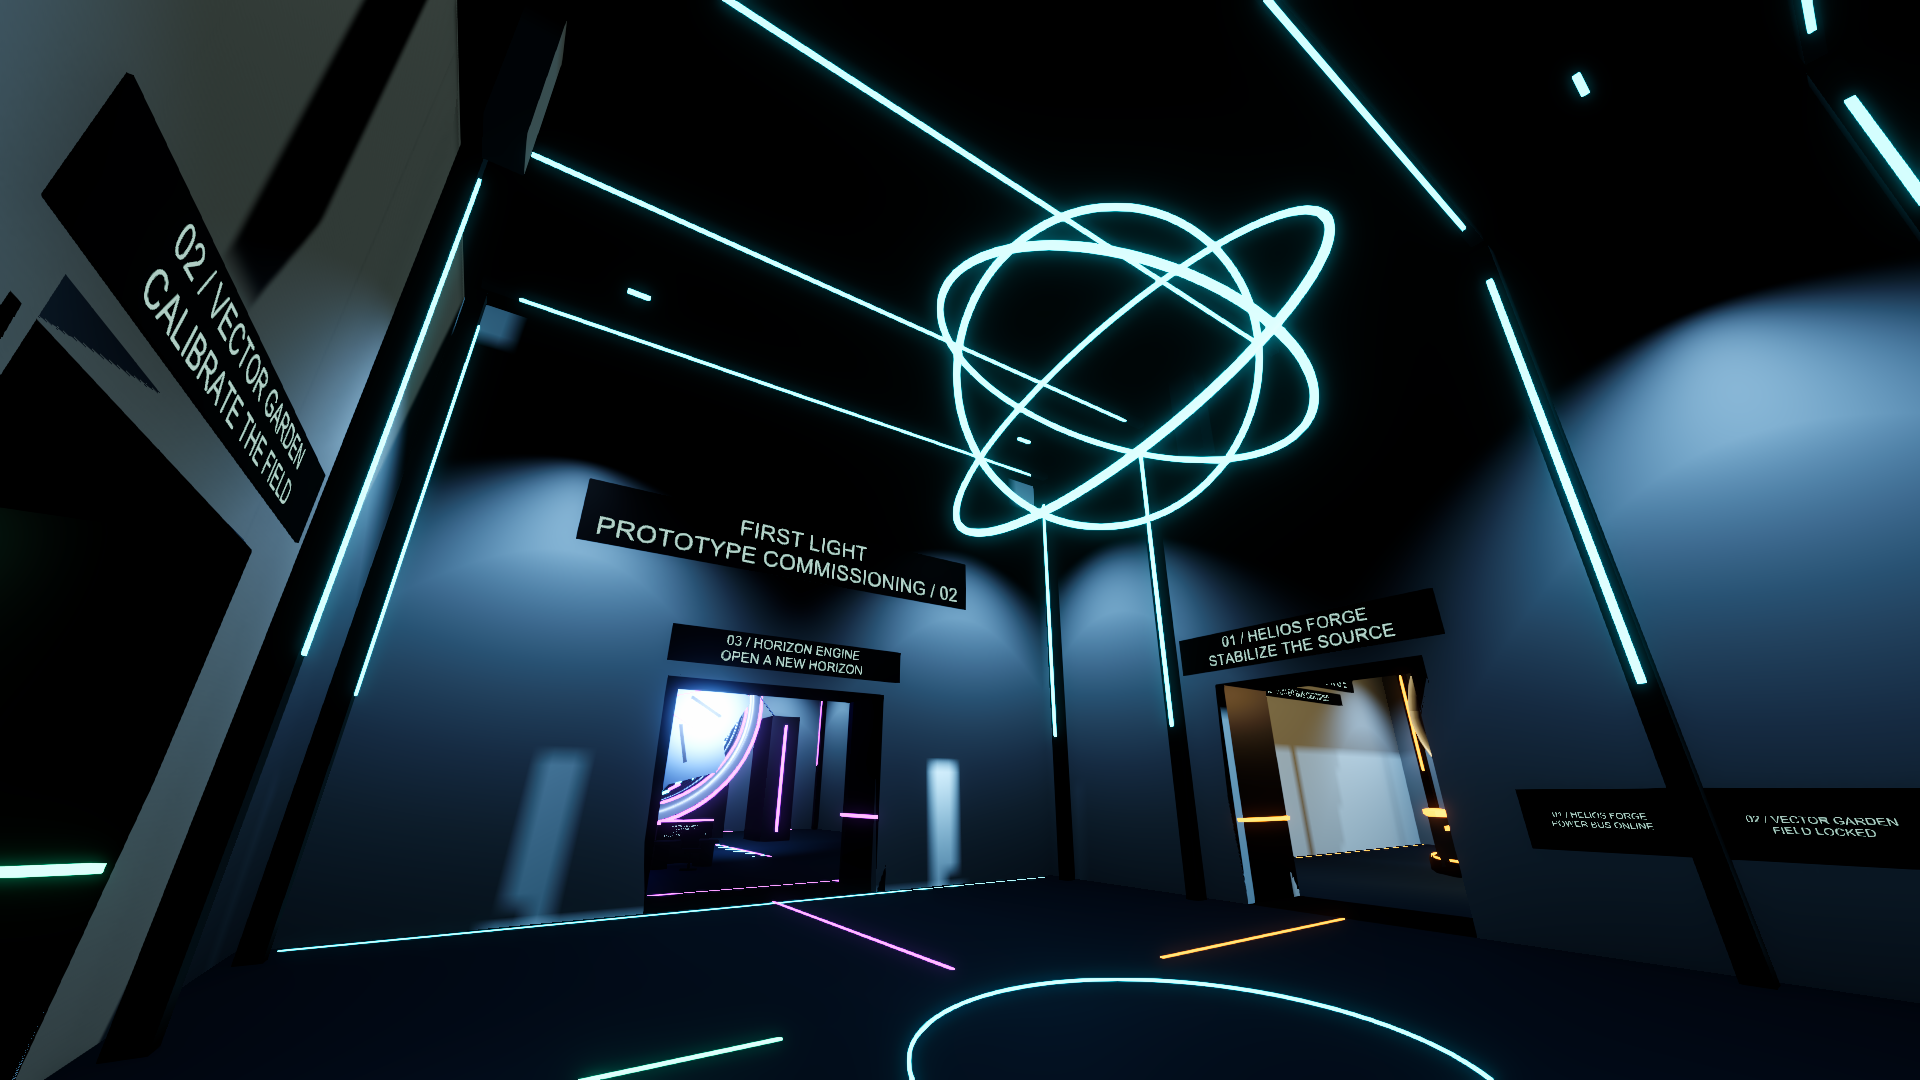
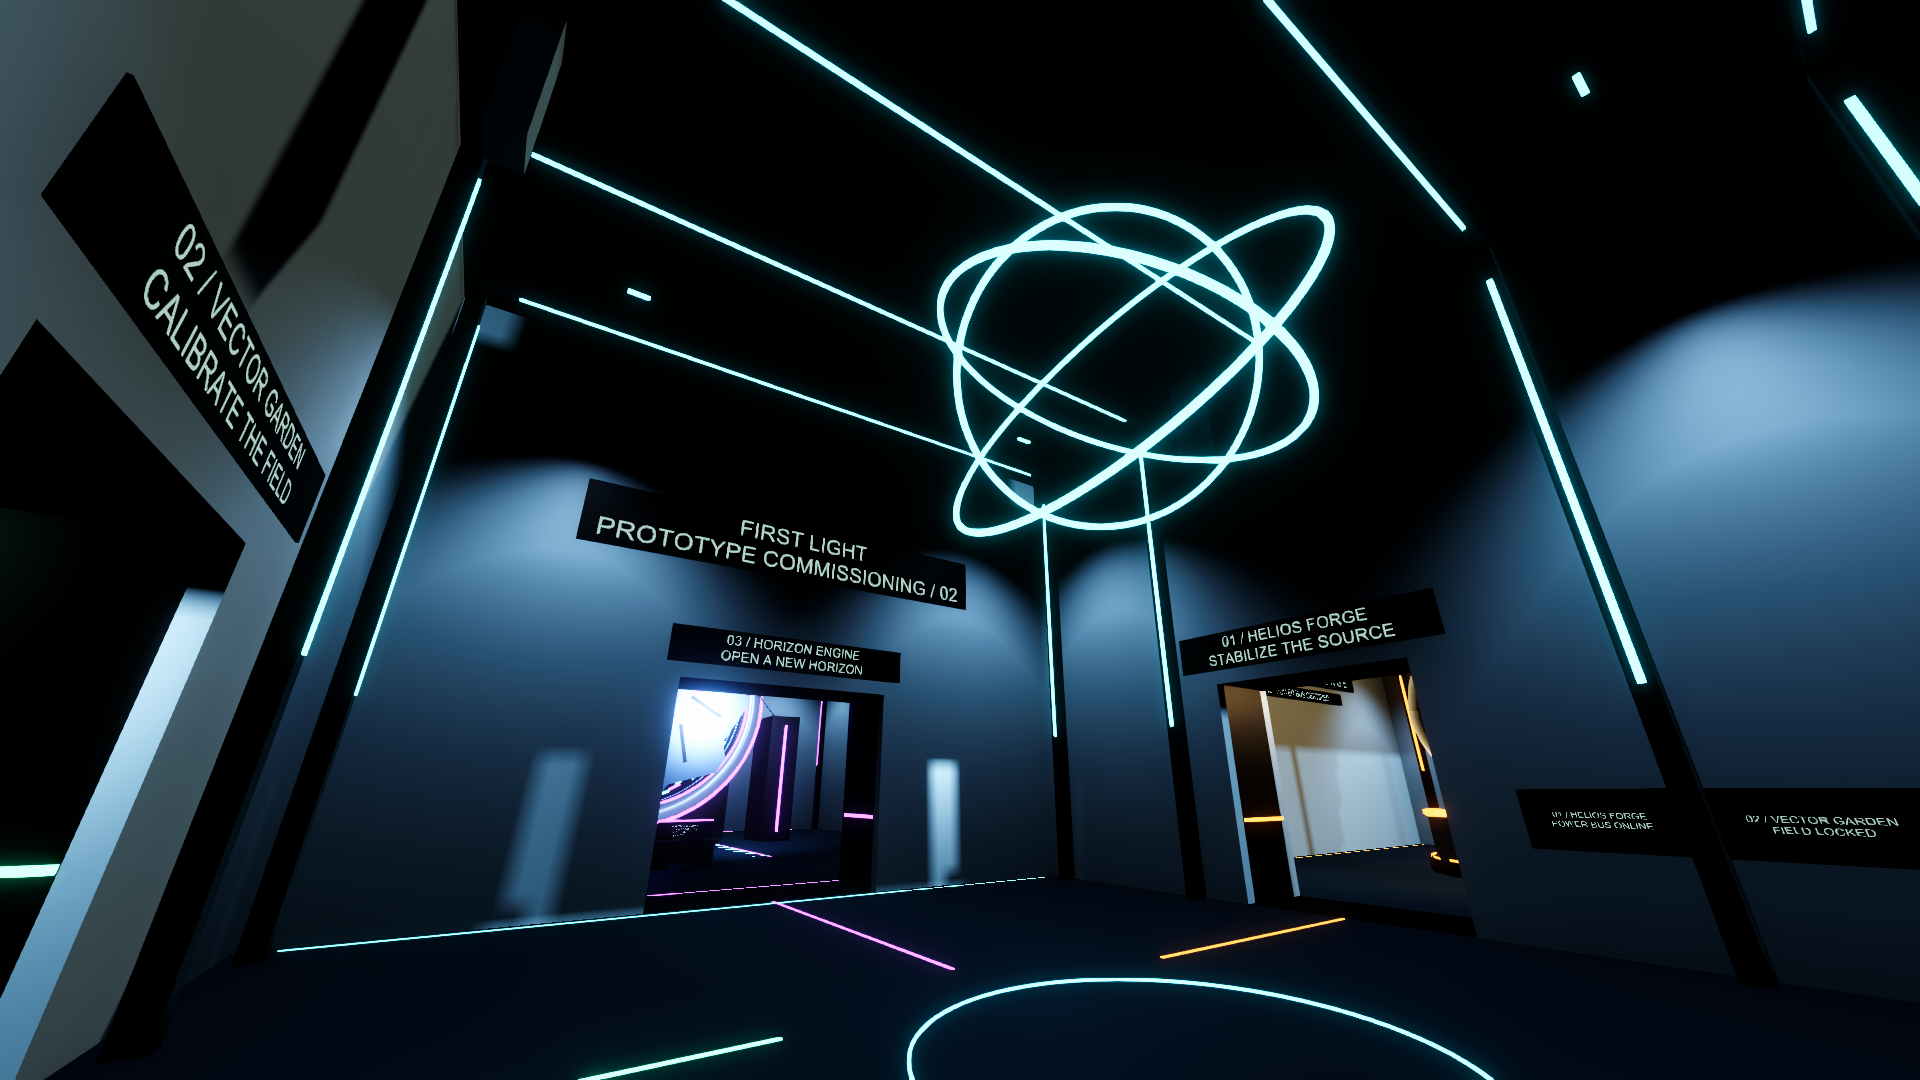
Polish campus motion, console sightlines and room seams

diff --git a/Assets/_Project/Tests/PlayMode/SkunkWorksCommissioningTests.cs b/Assets/_Project/Tests/PlayMode/SkunkWorksCommissioningTests.cs
@@ -61,6 +61,14 @@ public sealed class SkunkWorksCommissioningTests : InputTestFixture
         yield return Tap(keyboard.tabKey);
         yield return Tap(keyboard.fKey);
         yield return WaitFor(()=>Property<bool>(console,"IsSeated"));
+        Set(mouse.delta,new Vector2(0f,-320f));
+        yield return Frames(2);
+        Transform pose=Field(console,"seatedCameraPose") as Transform;
+        Vector3 terminal=pose.parent.TransformPoint(new Vector3(0f,1.03f,-0.06f));
+        Assert.That(Vector3.Angle(camera.transform.forward,terminal-camera.transform.position),Is.LessThan(5f),
+            "Mouse look must let the seated player inspect the tuning readout directly.");
+        Set(mouse.delta,new Vector2(0f,320f));
+        yield return Frames(2);
         Press(keyboard.spaceKey);
         yield return Frames(25);
         Release(keyboard.spaceKey);
@@ -137,6 +145,21 @@ public sealed class SkunkWorksCommissioningTests : InputTestFixture
         Transform[] sculptures=Field(garden,"sculptures") as Transform[];
         yield return Frames(120);
         Assert.That(sculptures[2].localPosition.y,Is.GreaterThan(sculptures[0].localPosition.y+0.5f));
+        // A partial view of the garden must keep the visible field animated,
+        // even when its first side does not participate in camera rendering.
+        LineRenderer[] links=Field(garden,"links") as LineRenderer[];
+        Quaternion gardenLook=camera.transform.rotation;
+        player.enabled=false;
+        camera.transform.rotation=Quaternion.LookRotation((sculptures[1].position+sculptures[2].position)*0.5f-camera.transform.position);
+        links[0].enabled=false;
+        yield return Frames(5);
+        Vector3 previousFieldPoint=links[1].GetPosition(31);
+        yield return Frames(15);
+        Assert.That(Vector3.Distance(previousFieldPoint,links[1].GetPosition(31)),Is.GreaterThan(0.005f),
+            "Visible field motion must continue when the first link is not rendered.");
+        links[0].enabled=true;
+        camera.transform.rotation=gardenLook;
+        player.enabled=true;
         Capture(camera,"skunk-vector-certified",new Vector3(12.5f,2.5f,9f),new Vector3(19.5f,4.6f,1f));
         yield return WalkTo(new Vector3(23.9f,0f,7.8f));
         yield return WalkTo(new Vector3(12f,0f,7.8f));
@@ -179,10 +202,16 @@ public sealed class SkunkWorksCommissioningTests : InputTestFixture
         Assert.That(Property<float>(horizon,"CaptureProgress01"),Is.EqualTo(cycle));
         Assert.That(Property<float>(horizon,"OpenFraction"),Is.EqualTo(opening));
         yield return Tap(keyboard.escapeKey);
+        yield return WaitFor(()=>Property<float>(horizon,"OpenFraction")>0.71f);
+        Transform surveyor=Field(horizon,"surveyor") as Transform;
+        Assert.That(surveyor.gameObject.activeSelf,Is.True);
+        Assert.That(surveyor.localPosition.z,Is.LessThan(0f),"The probe first emerges from within the aperture.");
+        Assert.That(surveyor.localScale.x,Is.InRange(0.0001f,0.99f),"The probe appears gradually rather than popping into view.");
         yield return WaitFor(()=>Property<bool>(horizon,"Completed"));
         Assert.That(Property<float>(horizon,"OpenFraction"),Is.EqualTo(1f).Within(0.001f));
         Assert.That(Property<int>(Find("SkunkWorksCommissioning"),"CompletedCount"),Is.EqualTo(3));
-        Assert.That((Field(horizon,"surveyor") as Transform).gameObject.activeSelf,Is.True);
+        Assert.That(surveyor.localPosition.z,Is.EqualTo(3.3f).Within(0.001f));
+        Assert.That(surveyor.localScale.x,Is.EqualTo(1f).Within(0.001f));
         foreach(Transform petal in Field(horizon,"iris") as Transform[])
             foreach(Renderer renderer in petal.GetComponentsInChildren<Renderer>())
             {

diff --git a/Assets/_Project/Scripts/HorizonEngineController.cs b/Assets/_Project/Scripts/HorizonEngineController.cs
@@ -96,7 +96,9 @@ public sealed class HorizonEngineController : MonoBehaviour
         for(int i=0;i<rings.Length;i++)
             rings[i].localRotation=Quaternion.Euler(0f,0f,clock*(i%2==0?1f:-1f)*(4f+i*3f)*(0.2f+OpenFraction));
         surveyor.gameObject.SetActive(OpenFraction>0.7f);
-        surveyor.localPosition=new Vector3(Mathf.Sin(clock*0.35f)*0.18f,Mathf.Sin(clock*0.7f)*0.15f,-1.7f+OpenFraction*5f);
+        float deployment=Mathf.SmoothStep(0f,1f,Mathf.InverseLerp(0.7f,1f,OpenFraction));
+        surveyor.localScale=Vector3.one*Mathf.SmoothStep(0f,1f,Mathf.Clamp01(deployment*3f));
+        surveyor.localPosition=new Vector3(Mathf.Sin(clock*0.35f)*0.18f,Mathf.Sin(clock*0.7f)*0.15f,Mathf.Lerp(-2.2f,3.3f,deployment));
         surveyor.localRotation=Quaternion.Euler(clock*6f,clock*18f,20f);
         window.GetPropertyBlock(properties);
         properties.SetFloat("_Open",OpenFraction);
@@ -116,7 +118,9 @@ public sealed class HorizonEngineController : MonoBehaviour
     {
         string stage=!Ready ? "INTERLOCK / CERTIFY HELIOS + VECTOR" : IsPerforming ? $"FIRST LIGHT / {CaptureProgress01:P0}"
             : Completed ? "FIRST LIGHT RECORDED / SPACE TO REPLAY" : Aligned ? "BEACON LOCK / SPACE TO INITIATE" : "ACQUIRE THE REFERENCE BEACON";
-        readout.text=$"HORIZON / {(Completed?"COMMISSIONED":"ALIGNMENT")}\nYAW {yaw:0.0} / REF +7.5\nPITCH {pitch:0.0} / REF +4.0\n{stage}";
+        string action=!Ready ? "HELIOS + VECTOR REQUIRED" : IsPerforming ? $"FIRST LIGHT / {CaptureProgress01:P0}"
+            : Completed ? "SPACE TO REPLAY" : Aligned ? "SPACE TO INITIATE" : "A D / YAW    W S / PITCH";
+        readout.text=$"HORIZON / {(Completed?"COMMISSIONED":"ALIGNMENT")}\nYAW {yaw:0.0} / REF +7.5\nPITCH {pitch:0.0} / REF +4.0\n{action}";
         status.text=stage;
     }
     private static AudioClip CreateHum()

diff --git a/Assets/_Project/Editor/SkunkWorksCapture.cs b/Assets/_Project/Editor/SkunkWorksCapture.cs
@@ -3,8 +3,6 @@ using System.IO;
 using System.Reflection;
 using UnityEditor;
 using UnityEngine;
-using UnityEngine.Rendering;
-using UnityEngine.Rendering.Universal;
 using Object=UnityEngine.Object;
 
 // Stages only a disposable Play session, then photographs the real animated
@@ -27,15 +25,15 @@ public static class SkunkWorksCapture
         new("arrival",new(9f,2f,27f),new(0f,6f,9f),74f),
         new("atrium",new(5.6f,2.2f,7f),new(0f,6f,-1f),80f),
         new("helios",new(-12.5f,2.5f,7.5f),new(-19.5f,4.5f,0.8f),74f),
-        new("helios-bench",new(-19.5f,1.7f,8.8f),new(-19.5f,4.4f,0.8f),72f),
+        new("helios-bench",new(-19.5f,2.05f,9.2f),new(-19.5f,3.9f,0.8f),72f),
         new("helios-detail",new(-23.5f,4.6f,6f),new(-19.5f,4.5f,0.8f),65f),
         new("vector",new(12.5f,2.5f,9f),new(19.5f,4.6f,1f),76f),
         new("vector-front",new(19.5f,2.2f,10f),new(19.5f,4.3f,0f),76f),
-        new("vector-anchor",new(24.1f,1.7f,4f),new(23.9f,3.9f,0f),76f),
+        new("vector-anchor",new(23.9f,1.7f,5.4f),new(23.9f,3.2f,0.3f),80f),
         new("horizon-idle",new(0f,2f,-12.5f),new(0f,6f,-26f),66f),
         new("horizon-opening",new(6f,2.3f,-17.5f),new(0f,6f,-26f),70f,2),
         new("horizon-first-light",new(5f,2.7f,-15f),new(0f,6f,-26f),72f,3),
-        new("horizon-bench",new(0f,1.6f,-14.9f),new(0f,5.5f,-26f),68f,3),
+        new("horizon-bench",new(0f,2.05f,-13.1f),new(0f,4.6f,-26f),72f,3),
         new("horizon-detail",new(-4f,4.2f,-20f),new(0f,6f,-26f),74f,3),
         new("atrium-complete",new(0f,1.7f,9.4f),new(0f,5f,-4f),80f,3),
         new("night",new(38f,11f,42f),new(0f,5f,-3f),66f,4),

diff --git a/Assets/_Project/Editor/GroundOpsSceneBuilder.SkunkWorks.cs b/Assets/_Project/Editor/GroundOpsSceneBuilder.SkunkWorks.cs
@@ -203,13 +203,16 @@ public static partial class GroundOpsSceneBuilder
         Transform link = NewGroup(name, campus);
         link.localPosition = position;
         NullBox("Floor", link, Vector3.down*0.14f, new Vector3(size.x,0.28f,size.y), dark);
-        NullBox("Skunk Works Ceiling", link, Vector3.up*4.65f, new Vector3(size.x,0.3f,size.y), white);
+        // Adjacent room shells already occupy 0.25 m at either end. Butt the
+        // connector walls/ceiling against them instead of overlapping faces.
+        Vector2 clearSpan=alongZ ? new Vector2(size.x,size.y-0.5f) : new Vector2(size.x-0.5f,size.y);
+        NullBox("Skunk Works Ceiling", link, Vector3.up*4.65f, new Vector3(clearSpan.x,0.3f,clearSpan.y), white);
         foreach (float side in new[] { -1f, 1f })
         {
             NullBox($"Link Wall {side}", link, alongZ ? new Vector3(side*(size.x/2f+0.125f),2.25f,0f) : new Vector3(0f,2.25f,side*(size.y/2f+0.125f)),
-                alongZ ? new Vector3(0.25f,4.5f,size.y) : new Vector3(size.x,4.5f,0.25f), dark);
+                alongZ ? new Vector3(0.25f,4.5f,clearSpan.y) : new Vector3(clearSpan.x,4.5f,0.25f), dark);
             NullBox($"Link Light {side}", link, alongZ ? new Vector3(side*(size.x/2f-0.05f),1.6f,0f) : new Vector3(0f,1.6f,side*(size.y/2f-0.05f)),
-                alongZ ? new Vector3(0.05f,0.08f,size.y) : new Vector3(size.x,0.08f,0.05f), glow);
+                alongZ ? new Vector3(0.05f,0.08f,clearSpan.y) : new Vector3(clearSpan.x,0.08f,0.05f), glow);
         }
         SetRendererMask(link, SkunkWorksLayout.AllLayers);
     }

diff --git a/Assets/_Project/Editor/GroundOpsSceneBuilder.Helios.cs b/Assets/_Project/Editor/GroundOpsSceneBuilder.Helios.cs
@@ -56,7 +56,7 @@ public static partial class GroundOpsSceneBuilder
         bench.localPosition=position;
         bench.localRotation=Quaternion.LookRotation(facing);
         ReusablePrefabInstance("Work Table",bench,reusablePrefabs.DocDesk,Vector3.zero,Quaternion.Euler(0f,90f,0f));
-        ReusablePrefabInstance("Chair",bench,reusablePrefabs.ChairBlack,new Vector3(0f,0f,-1f),Quaternion.identity);
+        ReusablePrefabInstance("Chair",bench,reusablePrefabs.ChairBlack,new Vector3(0f,0f,-1f),Quaternion.Euler(0f,180f,0f));
         NullBox("Terminal",bench,new Vector3(0f,1.03f,0.12f),new Vector3(1.65f,0.48f,0.34f),dark);
         NullBox("Terminal Light",bench,new Vector3(0f,1.31f,0.12f),new Vector3(1.65f,0.045f,0.34f),accent);
         readout=CreateWorldDisplayText("Readout",bench,new Vector3(0f,1.03f,-0.06f),1.55f,0.44f,"PROTOTYPE SYSTEM / STANDBY",48,Quaternion.identity);
@@ -74,6 +74,7 @@ public static partial class GroundOpsSceneBuilder
         body.useGravity=false;
         SimpleSeatedConsoleController console=GetOrAddComponent<SimpleSeatedConsoleController>(trigger.gameObject);
         console.Configure(player,player.PlayerCamera,pose);
+        console.ConfigureLookLimits(new Vector2(-45f,45f),new Vector2(-35f,45f));
         console.ConfigurePrompts("Press F to sit at the "+name.ToLowerInvariant(),controls+"\nMouse: look   Wheel: zoom   F / Esc: stand up");
         return console;
     }

diff --git a/Assets/_Project/Editor/GroundOpsSceneBuilder.Horizon.cs b/Assets/_Project/Editor/GroundOpsSceneBuilder.Horizon.cs
@@ -74,8 +74,10 @@ public static partial class GroundOpsSceneBuilder
             GameObject rail=NullBox("Sail Filament",wing,new Vector3(1f,0.05f,0f),new Vector3(0.8f,0.04f,0.07f),violet);
             Object.DestroyImmediate(rail.GetComponent<Collider>());
         }
-        Text status=NullSign("Horizon Status",room,new Vector3(0f,11.6f,-25.8f),Vector3.forward,
-            "FIRST LIGHT / INTERLOCK",12f,0.55f,dark);
+        Text status=NullSign("Horizon Status",room,new Vector3(0f,10.5f,-22.8f),Vector3.forward,
+            "FIRST LIGHT / INTERLOCK",10.5f,0.55f,dark);
+        foreach(float side in new[] {-1f,1f})
+            NullBox($"Status Suspension {side}",room,new Vector3(side*4.5f,11.22f,-22.8f),new Vector3(0.045f,1.45f,0.045f),metal);
         NullSign("Horizon Interlock Instructions",room,new Vector3(-8.6f,2f,-18f),Vector3.forward,
             "FIRST LIGHT PROTOCOL\n01 CERTIFY HELIOS\n02 LOCK THE VECTOR FIELD\n03 ACQUIRE +7.5 / +4.0\n04 SPACE TO INITIATE",3.5f,1.75f,dark);
         SimpleSeatedConsoleController console=BuildSkunkConsole("Horizon Alignment Bench",room,player,new Vector3(0f,0f,-16f),Vector3.back,

diff --git a/Assets/_Project/Editor/GroundOpsSceneBuilder.VectorGarden.cs b/Assets/_Project/Editor/GroundOpsSceneBuilder.VectorGarden.cs
@@ -43,7 +43,7 @@ public static partial class GroundOpsSceneBuilder
             control.localPosition=positions[i]+Vector3.forward*2.6f;
             controls[i]=control;
             Vector3 panel=positions[i]+new Vector3(0f,1.28f,1.88f);
-            NullBox($"Anchor {i} Pedestal",apparatus,panel-new Vector3(0f,0.65f,0f),new Vector3(0.32f,1.26f,0.32f),metal);
+            NullBox($"Anchor {i} Pedestal",apparatus,panel-new Vector3(0f,0.65f,0.22f),new Vector3(0.32f,1.26f,0.32f),metal);
             labels[i]=NullSign($"Anchor {i} Readout",apparatus,panel,Vector3.forward,"VECTOR / STANDBY",1.5f,0.62f,dark);
             NullLamp($"Levitation Wash {i}",apparatus,positions[i]+Vector3.up*8.7f,Vector3.down,
                 new Color(0.12f,1f,0.65f),330f,12f,mint,false);

diff --git a/Assets/_Project/Scripts/VectorGardenController.cs b/Assets/_Project/Scripts/VectorGardenController.cs
@@ -95,7 +95,9 @@ public sealed class VectorGardenController : MonoBehaviour
             sculptures[i].localPosition=position;
             sculptures[i].localRotation=Quaternion.Euler(Mathf.Sin(clock*0.3f+i)*7f,clock*(8f+i*3f),0f);
         }
-        if(links[0].isVisible || clock<0.2f) DrawField();
+        // Each side occupies a different part of the room. Looking away from
+        // A-B must not freeze the other two visible sides of the field.
+        if(links[0].isVisible || links[1].isVisible || links[2].isVisible || clock<0.2f) DrawField();
         displayTimer-=Time.deltaTime;
         if(displayTimer<=0f) { displayTimer=0.1f; UpdateLabels(); }
     }

diff --git a/Assets/_Project/Scripts/SimpleSeatedConsoleController.cs b/Assets/_Project/Scripts/SimpleSeatedConsoleController.cs
@@ -47,6 +47,12 @@ public sealed class SimpleSeatedConsoleController : MonoBehaviour
         seatedPrompt = seated;
     }
 
+    public void ConfigureLookLimits(Vector2 azimuth, Vector2 elevation)
+    {
+        lookAzimuthLimits = azimuth;
+        lookElevationLimits = elevation;
+    }
+
     public void Configure(
         FirstPersonPlayerController player,
         Camera camera,

diff --git a/AGENTS.md b/AGENTS.md
@@ -171,6 +171,7 @@ The pause menu previously rendered correctly while its buttons were completely u
 - At the DOC truck stop, 1 selects Antennas, 2 selects Skunk Works, and one W press starts the selected complete leg. Both destinations return to the DOC. Keep the existing antenna route and its tests; selecting a destination must preserve the exact parked truck pose. The new campus road shares the roundabout connectors and turns forward on its arrival terrace.
 - Keep `SkunkWorksJourneyTests` as an actual Input System trip, campus walkthrough, and return check. The lab activities and final screenshot gallery are documented in `docs/skunk-works.md` as their milestones land.
 - The `.Helios`, `.VectorGarden`, and `.Horizon` builder partials own unique equipment and controller wiring. `SkunkWorksCommissioning` supplies the contextual assignment and notes without resetting Signal Watch. Progress is session-only.
+- Short lab links reserve the adjoining room slabs' 0.25 m at each end; keep connector walls and ceilings from overlapping those slabs. Skunk Works chairs face their benches through intentional instance rotations. Their consoles allow enough downward look to inspect the terminals. Keep support posts behind world-space readouts.
 - `HeliosForgeController` certifies phase 126 / containment 0.680 with a three-second stable Space hold. `VectorGardenController` advances an anchor and its clockwise neighbor modulo four; heights 2 / 1 / 3 settle for 2.5 seconds to certify. The garden requires Helios, and `HorizonEngineController` requires both before aligning yaw +7.5 / pitch +4.0. Space starts its automatic 14-second First Light sequence; it continues after standing and supports replay after completion.
 - Keep `SkunkWorksCommissioningTests` driving real Input System events through the full three-stage sequence, testing interlocks, coupled changes and wraparound, pause, interrupted source capture, zoom/FOV restoration, and replay. New animation uses the normal scaled frame clock and freezes with the shared pause menu.
 - `capture_skunk_works` photographs a fresh, disposable Play session into `docs/screenshots/` and exits Play Mode. Its HDR camera target preserves bloom before converting to sRGB PNGs. It stages demonstration states only in Play Mode and must never save them into Main.

diff --git a/docs/skunk-works.md b/docs/skunk-works.md
@@ -37,7 +37,7 @@ An anchor changes two heights at once. Four presses on the same anchor undo thos
 
 ## Verification and photographs
 
-`SkunkWorksJourneyTests` rides both directions, checks the parked destination switch, walks every wing and doorway, verifies floor support, and returns to the original destination. `SkunkWorksCommissioningTests` uses real Input System events for the complete commissioning sequence, interlocks, coupled anchors, interruption, pause, zoom, standing transitions, and replay. The existing facility, archive, null lab, and real-pointer pause tests remain in the suite.
+`SkunkWorksJourneyTests` rides both directions, checks the parked destination switch, walks every wing and doorway, verifies floor support, and returns to the original destination. `SkunkWorksCommissioningTests` uses real Input System events for the complete commissioning sequence, interlocks, coupled anchors, interruption, pause, zoom, terminal inspection, standing transitions, and replay. It also checks partially visible field animation, iris clearance, and gradual probe deployment. The existing facility, archive, null lab, and real-pointer pause tests remain in the suite.
 
 [The screenshot gallery](screenshots/README.md) contains sixteen actual 1920 by 1080 campus views. To reproduce it, enter a fresh Main Play session through the bridge and run:
 
